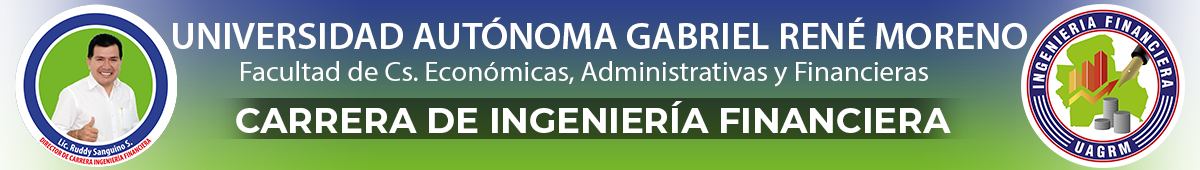
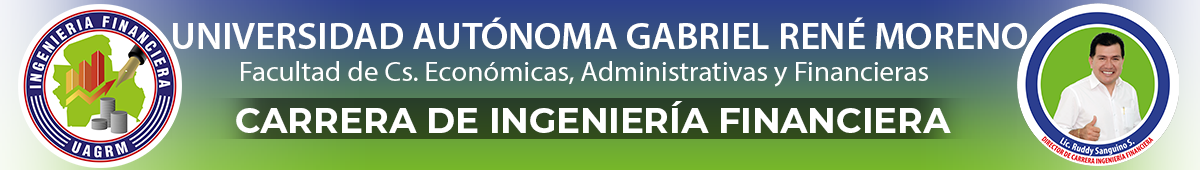
cambio de letras a 16px, cambio del texto de footer y mejoras en ortografia,arreglo en maquetacion

Changed region(s): [[0.8325, 0.0, 0.9867, 1.0], [0.0, 0.0294, 0.1542, 1.0], [0.0617, 0.0, 0.0925, 0.0294]]

diff --git a/public/store/css/style.css b/public/store/css/style.css
@@ -100,7 +100,7 @@ This files contents are outlined below.
   bottom: -30px;
 }
 .tittle h4 {
-  font: 400 14px "Roboto", sans-serif;
+  font: 400 16px "Roboto", sans-serif;
   color: #555555;
   padding-top: 55px;
 }
@@ -308,7 +308,7 @@ a:focus, a:hover, .btn:focus, .btn:hover, button:focus, button:hover {
   padding-top: 39px;
 }
 .header_aera .navbar-header .navbar-brand img {
-  max-width: 100%;
+  max-width: 85%;
 }
 .header_aera .navbar-collapse .navbar-nav.navbar-right li a {
   font: 700 14px/100px "Roboto", sans-serif;
@@ -724,7 +724,7 @@ a:focus, a:hover, .btn:focus, .btn:hover, button:focus, button:hover {
   display: block;
 }
 .what_we_area .construction_iner .construction .cns-content p {
-  font: 400 14px/26px "Roboto", sans-serif;
+  font: 400 16px/26px "Roboto", sans-serif;
   color: #555555;
   padding-top: 20px;
 }
@@ -776,7 +776,7 @@ a:focus, a:hover, .btn:focus, .btn:hover, button:focus, button:hover {
   color: #f6b60b;
 }
 .our_feature_area .feature_row .feature_content .media .media-body p {
-  font: 400 14px/26px "Roboto", sans-serif;
+  font: 400 16px/26px "Roboto", sans-serif;
   color: #555555;
   padding-top: 20px;
 }
@@ -1529,7 +1529,7 @@ a:focus, a:hover, .btn:focus, .btn:hover, button:focus, button:hover {
   color: #f6b60b;
 }
 .building_construction_area .building_construction_row .constructing_laft p {
-  font: 400 14px/26px "Roboto", sans-serif;
+  font: 400 16px/26px "Roboto", sans-serif;
   color: #555555;
 }
 .building_construction_area .building_construction_row .constructing_laft .ipsum {
@@ -1542,7 +1542,7 @@ a:focus, a:hover, .btn:focus, .btn:hover, button:focus, button:hover {
 }
 .building_construction_area .building_construction_row .constructing_laft .ipsum .excavator li {
   list-style: none;
-  font: 400 14px/26px "Roboto", sans-serif;
+  font: 400 16px/26px "Roboto", sans-serif;
   color: #555555;
 }
 .building_construction_area .building_construction_row .constructing_laft .ipsum .excavator li i {

diff --git a/resources/views/store/template.blade.php b/resources/views/store/template.blade.php
@@ -65,10 +65,10 @@
         <div class="container">
             <div class="row building_construction_row">
                 <div class="col-sm-6 constructing_laft">
-                    <h2>PERFIL DEL POSTULANTE</h2>
+                    <h2 style="text-align: center;">PERFIL DEL POSTULANTE</h2>
 
                     <p>Es deseable que quienes ingresen a esta carrera posean capacidad de razonamiento, habilidad de análisis, síntesis y capacidad para solución de problemas. La Ingeniería Financiera busca ir más allá de los contenidos tradicionales de enseñanza impartidos en nuestro medio académico, buscando formar profesionales con conocimientos sólidos en lo científico y técnico, innovadores, con capacidad para la toma de decisiones y dar soluciones a los problemas de su entorno. El Estudiante deberá tener las siguientes actitudes en:</p>
-                    <div class="col-md-6 ipsum">
+                    <div class="col-md-8 ipsum">
                         <ul class="excavator">
                             <li><i class="fa fa-chevron-circle-right"></i>Predisposición para el estudio.</li>
                             <li><i class="fa fa-chevron-circle-right"></i>Habilidad numérica.</li>
@@ -78,7 +78,7 @@
                         </ul>
                     </div>
                 </div>
-                <div class="col-md-6 constructing_right">
+                <div class="col-md-6 constructing_laft">
                     <img src="{{ asset('images/images/estudiante4.png')}}" alt="">
                 </div>
             </div>
@@ -104,7 +104,7 @@
                 </div>
                 <div class="col-md-6 feature_content">
                     <div class="subtittle">
-                        <h3>EL INGENIERO FINANCIERO:</h3>
+                        <h3 style="text-align: center;">EL INGENIERO FINANCIERO:</h3>
                     </div>
                     <div class="media">
                         <div class="media-left">
@@ -149,14 +149,14 @@
     <section class="our_feature_area">
         <div class="container">
             <div class="tittle wow fadeInUp">
-                <h2>Donde Trabaja</h2>
-                <h4>El ingeniero financiero es un profesional con elevada formación práctica en el área de las finanzas, con espíritu crítico, ética profecinal y conciencia de la realiadad nacional, capaz de  promover y conducir el desarrollo empresarial.</h4>
+                <h2 style="text-align: center;">Donde Trabaja</h2>
+                <h4>El ingeniero financiero es un profesional con elevada formación práctica en el área de las finanzas, con espíritu crítico, ética profesional y conciencia de la realidad nacional, capaz de  promover y conducir el desarrollo empresarial.</h4>
             </div>
             <div class="feature_row row">
 
                 <div class="col-md-6 feature_content">
                     <div class="subtittle">
-                        <h3>El Ingeniero en Financiero puede trabajar en:</h3>
+                        <h3 style="text-align: center;">El Ingeniero en Financiero puede trabajar en:</h3>
                     </div>
                     <div class="media">
                         <div class="media-left">

diff --git a/resources/views/store/partials/nav.blade.php b/resources/views/store/partials/nav.blade.php
@@ -6,13 +6,13 @@
             <!-- Brand and toggle get grouped for better mobile display -->
             <div class="col-md-2 p0">
                 <div class="navbar-header">
-                    <button type="button" class="navbar-toggle collapsed" data-toggle="collapse" data-target="#min_navbar">
+                    <a class="navbar-brand" href="{{route('/')}}"><img src="{{ asset('images/images/logo1.png')}}" class="img-responsive"></a>
+                    <button type="button" class="navbar-toggle collapsed" style="margin-top: 0px;" data-toggle="collapse" data-target="#min_navbar">
                     <span class="sr-only">Toggle navigation</span>
                     <span class="icon-bar"></span>
                     <span class="icon-bar"></span>
                     <span class="icon-bar"></span>
                     </button>
-                    <a class="navbar-brand" href="{{route('/')}}"><img src="{{ asset('images/images/logo1.png')}}" class="img-responsive"></a>
 
                 </div>
             </div>

diff --git a/resources/views/store/partials/footer.blade.php b/resources/views/store/partials/footer.blade.php
@@ -30,7 +30,7 @@
                         <ul class="my_address">
                             <li><a href="#"><i class="fa fa-envelope" aria-hidden="true"></i>financierauagrm@gmail.com</a></li>
                             <li><a href="#"><i class="fa fa-phone" aria-hidden="true"></i>(591) 3599603</a></li>
-                            <li><a href="#"><i class="fa fa-map-marker" aria-hidden="true"></i>Av. Busch, Ciudad Universitaria - Modulo 265 </a></li>
+                            <li><a href="#"><i class="fa fa-map-marker" aria-hidden="true"></i> Santa Cruz, Bolivia <br>   Av. Busch, Ciudad Universitaria - Modulo 265 </a></li>
                         </ul>
                     </address>
                 </div>

diff --git a/resources/views/admin/partials/nav.blade.php b/resources/views/admin/partials/nav.blade.php
@@ -7,7 +7,7 @@
           <!-- mini logo for sidebar mini 50x50 pixels -->
           <span class="logo-mini"><b>A</b>LT</span>
           <!-- logo for regular state and mobile devices -->
-          <span class="logo-lg"><b>ING.</b>FINANCIERA</span>
+          <span class="logo-lg"><b>INGENIERIA</b>FINANCIERA</span>
 
         </a>
 
